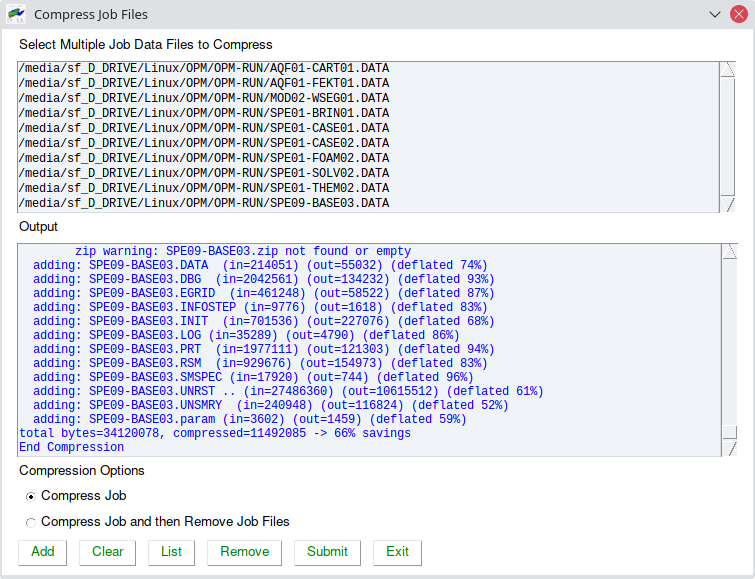
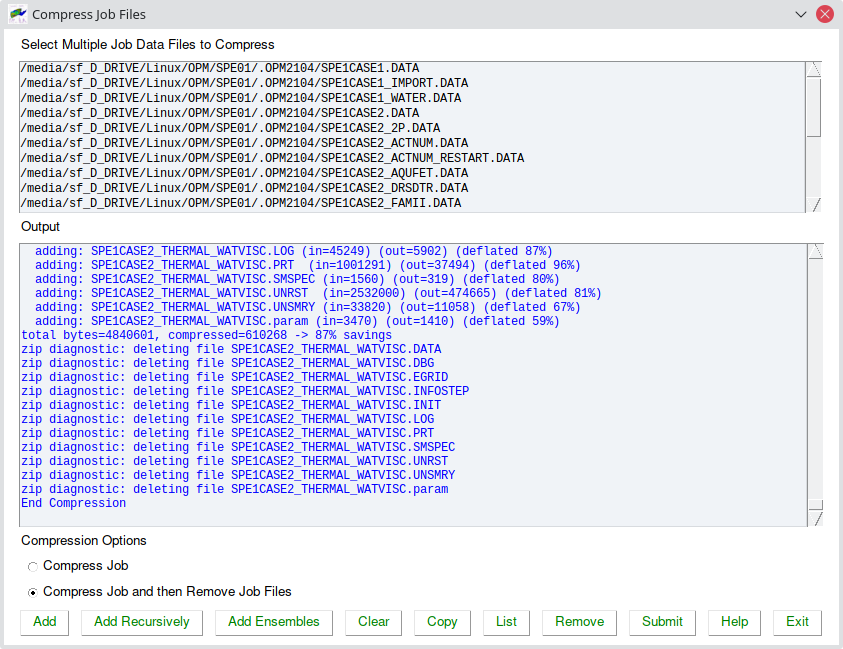
Add Recursive Compression to OPMRUN Tools
Add recursive compression to compress all *.DATA jobs in a directory and below, as well as  ensemble recursive compression, that will compress all files in an ensemble directory. I needed this for a project that had far too many ensemble cases.

Added addition documentation and compression "help" option.

Fixed a bug with calling OPM ResInsight.

This was done some time ago I just needed to update the image in the manual and the web site for the commit.

diff --git a/opmrun/opm_compress.py b/opmrun/opm_compress.py
@@ -9,6 +9,9 @@ Program Documentation
 ---------------------
 Only Python 3 is supported and tested Python2 support has been depreciated.
 
+2022.04.01 - Add compression option to add Ensemble directories recursively and updated help information.
+2022.04.01 - Add compression/uncompression option to add files recursively and also added help information.
+2022.04.01 - Add compression option to add Ensemble directories recursively and updated help information.
 2021.07.01 - New module with code moved from main module to here for code maintainability reasons.
 2020.04.04 - Refactored code to be more compact as import checks are done in the main routine.
 2020.04.01 - Initial release
@@ -43,7 +46,7 @@ Date    : 14-Jul-2021
 import PySimpleGUI as sg
 from pathlib import Path
 
-from opm_common import (change_directory, run_command)
+from opm_common import (change_directory, copy_to_clipboard, opm_popup, run_command)
 
 # ----------------------------------------------------------------------------------------------------------------------
 # Define OPM_COMPRESS Specific Modules
@@ -84,6 +87,7 @@ def compress_cmd(cmd):
     jobzip  = Path(jobbase).with_suffix('.zip')
     return job, jobcmd, jobpath, jobbase, jobroot, jobfile, jobzip
 
+
 def compress_chk(cmd, window):
     """Check that the Linux ZIP and UNZIP Packages Have Been Installed
 
@@ -113,11 +117,13 @@ def compress_chk(cmd, window):
         status = True
     return status
 
+
 def compress_files(opmoptn):
     """Compress All Jobs Input and Output into a Zip File Using the Base Name
 
     The function allows the use to select a group of DATA files for compression of all files associated with the case
-    name (*.DATA), using the standard zip utility on Linux systems
+    name (*.DATA), using the standard zip utility on Linux systems. In addition, files can be added recursively by
+    selecting the "top" directory.
 
     Parameters
     ----------
@@ -137,16 +143,19 @@ def compress_files(opmoptn):
 
     outlog   = '_outlog1_'+sg.WRITE_ONLY_KEY
     layout1  = [[sg.Text('Select Multiple Job Data Files to Compress'                             )],
-                [sg.Listbox(values='', size=(100, 10), key='_joblist1_',
+                [sg.Listbox(values='', size=(112, 10), key='_joblist1_',
                             font=(opmoptn['output-font'], opmoptn['output-font-size'])            )],
                 [sg.Text('Output'                                                                 )],
-                [sg.Multiline(key=outlog, size=(100, 15), text_color='blue', autoscroll=True,
+                [sg.Multiline(key=outlog, size=(112, 20), text_color='blue', autoscroll=True,
                               font=(opmoptn['output-font'], opmoptn['output-font-size'])          )],
                 [sg.Text('Compression Options'                                                    )],
                 [sg.Radio('Compress Job' , "bRadio", default=True                                 )],
                 [sg.Radio('Compress Job and then Remove Job Files', "bRadio"                      )],
-                [sg.Button('Add'), sg.Button('Clear',  tooltip='Clear Output'), sg.Button('List'),
-                                   sg.Button('Remove', tooltip='Remove Data Files'), sg.Submit(), sg.Exit()]]
+                [sg.Button('Add'), sg.Button('Add Recursively', tooltip='Add *.DATA Files Recursively'),
+                 sg.Button('Add Ensembles', tooltip='Add Ensemble Directories Recursively'),
+                 sg.Button('Clear', tooltip='Clear Output'),
+                 sg.Button('Copy', tooltip='Copy Output to Clipboard'), sg.Button('List'),
+                 sg.Button('Remove', tooltip='Remove Data Files'), sg.Submit(), sg.Button('Help'), sg.Exit()]]
     window1 = sg.Window('Compress Job Files', layout=layout1, finalize=True)
     #
     #   Set Output Multiline Window for CPRINT and Check If ZIP Package is Available
@@ -178,10 +187,58 @@ def compress_files(opmoptn):
                 window1['_joblist1_'].update(joblist1)
             continue
         #
+        # Add Files Recursively
+        #
+        if event == 'Add Recursively':
+            jobdir = sg.popup_get_folder('Select Job Directory for Data Files to Compress Recursively',
+                                         default_path=str(Path().absolute()), initial_folder=Path().absolute())
+            jobs   = [job for job in Path(jobdir).rglob('*') if job.suffix in ['.DATA', '.data']]
+            if len(jobs) == 0:
+                sg.popup_ok('No Simulation Input Files Found', title='OPMRUN Add Recursively',
+                            no_titlebar=False, grab_anywhere=False, keep_on_top=True)
+                continue
+            else:
+                text = sg.popup_yes_no('Found a Total of ' + str(len(jobs)) + ' Simulation Input Files.\n',
+                                       'Do you wish to add all this files to the job queue?',
+                                       title='OPMRUN Add Recursively',
+                                       no_titlebar=False, grab_anywhere=False, keep_on_top=True)
+                if text == 'Yes':
+                    joblist1 = jobs
+                    window1['_joblist1_'].update(joblist1)
+                continue
+        #
+        # Add Files Ensembles
+        #
+        if event == 'Add Ensembles':
+            jobdir = sg.popup_get_folder('Select Main Ensemble Directory for Directory Compression Recursively',
+                                         default_path=str(Path().absolute()), initial_folder=Path().absolute())
+            jobs   = [job for job in Path(jobdir).glob('**/')]
+            jobs   = jobs[1:]
+            if len(jobs) == 0:
+                sg.popup_ok('No Ensemble Directories Found', title='OPMRUN Add Ensembles',
+                            no_titlebar=False, grab_anywhere=False, keep_on_top=True)
+                continue
+            else:
+                text = sg.popup_yes_no('Found a Total of ' + str(len(jobs)) + ' Ensemble Directories.\n',
+                                       'Do you wish to add all this Ensemble Directories to the job queue?',
+                                       title='OPMRUN Add Ensembles',
+                                       no_titlebar=False, grab_anywhere=False, keep_on_top=True)
+                if text == 'Yes':
+                    joblist1 = jobs
+                    window1['_joblist1_'].update(joblist1)
+                continue
+        #
         # Clear Output
         #
         if event == 'Clear':
             window1[outlog].update('')
+            continue
+        #
+        # Copy Output to Clipboard
+        #
+        elif event == 'Copy':
+            copy_to_clipboard(window1[outlog].get())
+            sg.popup_timed('Output Copied to Clipboard', no_titlebar=False, grab_anywhere=False, keep_on_top=True)
             continue
         #
         # Exit
@@ -193,6 +250,11 @@ def compress_files(opmoptn):
                 break
             else:
                 continue
+        #
+        # Help
+        #
+        elif event == 'Help':
+            compress_help(opmoptn)
         #
         # Get Directory and List Files
         #
@@ -229,12 +291,18 @@ def compress_files(opmoptn):
             for cmd in joblist1:
                 jobnum = jobnum + 1
                 window1['_joblist1_'].update(set_to_index=jobnum, scroll_to_index=jobnum)
-                sg.cprint('Start Compression\n')
+                sg.cprint('\nStart Compression')
                 (job, jobcmd, jobpath, jobbase, jobroot, jobfile, jobzip) = compress_cmd(cmd)
-
-                error = change_directory(jobpath, popup=True, outprt=True)
-                if not error:
+                #
+                # File or Ensemble Compression
+                #
+                if Path(cmd).is_file():
+                    error  = change_directory(jobpath, popup=True, outprt=True)
                     jobcmd = wsl + zipcmd + str(jobzip) + ' ' + str(jobfile)
+                else:
+                    error  = change_directory(jobcmd, popup=True, outprt=True)
+                    jobcmd = wsl + zipcmd + str(jobzip) + ' ' + '*.*'
+                if not error:
                     sg.cprint('   ' + jobcmd)
                     run_command(jobcmd, timeout=None, window=window1)
                     sg.cprint('End Compression')
@@ -245,6 +313,54 @@ def compress_files(opmoptn):
 
     window1.Close()
     return()
+
+
+def compress_help(opmoptn):
+    """Compress and Uncompress Help
+
+    Display compress and uncompress help information.
+
+    Parameters
+    ----------
+    opmoptn; dict
+        A dictionary containing the OPMRUN default parameters
+
+    Returns
+    ------
+    None
+    """
+
+    helptext = (
+                'OPMRun is a Graphical User Interface ("GUI") program for the Open Porous Media ("OPM") Flow ' +
+                'simulator. \n' +
+                '\n'
+                'The Compress and Uncompress utilities enable compress and uncompression to be performed on OPM Flow ' +
+                'datasets. Currently the following options are available:\n\n' +
+                'Add             - Allows one to select the individual files, *.DATA for \n' +
+                '                  compression jobs and *.ZIP for uncompressing jobs.\n' +
+                'Add Recursively - Lets one select the main directory, and all files within and\n' +
+                '                  below the selected directory will be selected, based on \n' +
+                '                  the compression (*.DATA) and uncompression (*.ZIP) option.\n' +
+                'Add Ensembles   - Select the main Ensemble directory, and all directories \n' +
+                '                  within and below will be selected. All files within a \n' +
+                '                  a directory will be compressed into one zip file. Use the \n' +
+                '                  Add Recursively uncompression (*.ZIP) option to unzip the \n' +
+                '                  files.\n' +
+                'Clear           - Clears the Output window.\n' +
+                'List            - Allows one to select a directory and display all the *.DATA\n' +
+                '                  or *.ZIP files.\n' +
+                'Remove          - Remove all compression jobs from the queue.\n' +
+                'Submit          - Submit all compression jobs for processing.\n' +
+                'Exit            - Exit the utility.\n' +
+                '\n' +
+                'For the compression option one also has the option to remove the files once they have been ' +
+                'compressed in order to save space.\n\n' +
+                'The uncompressing options include being able or not able to over write existing files, as well as ' +
+                'the option to remove the zip files or to keep the zip files once all the files have been ' +
+                'uncompressed. \n\n' +
+                'See the OPM Flow manual for further information. \n')
+
+    opm_popup('Compression Utility Help', helptext, 25, font= (opmoptn['output-font'],opmoptn['output-font-size']))
 
 
 def uncompress_files(opmoptn):
@@ -270,22 +386,21 @@ def uncompress_files(opmoptn):
     joblist1 = []
 
     outlog   = '_outlog1_'+sg.WRITE_ONLY_KEY
-    layout1  = [[sg.Text('Select Multiple Archive Files to Uncompress'                           )],
+    layout1  = [[sg.Text('Select Multiple Archive Files to Uncompress')],
                 [sg.Listbox(values='', size=(100, 10), key='_joblist1_',
                             font=(opmoptn['output-font'], opmoptn['output-font-size']))],
                 [sg.Text('Output')],
-                [sg.Multiline(key=outlog, size=(100, 15), text_color='blue', autoscroll=True,
+                [sg.Multiline(key=outlog, size=(100, 20), text_color='blue', autoscroll=True,
                               font=(opmoptn['output-font'], opmoptn['output-font-size']))],
-                [sg.Text('Uncompress Options'                                                 )],
-                [sg.Radio('Uncompress and Keep Existing Files'        , "bRadio1", default=True,
-                          key='_bRadio1_'                                                        )],
-                [sg.Radio('Uncompress and Overwrite Existing Files'   , "bRadio1"                )],
-                [sg.Text('Compressed File Options'                                               )],
-                [sg.Radio('Keep Compressed File After Uncompressing'  , "bRadio2", default=True,
-                          key='_bRadio2_'                                                        )],
-                [sg.Radio('Delete Compressed File After Uncompressing', "bRadio2"                )],
-                [sg.Button('Add'), sg.Button('Clear',  tooltip='Clear Output'), sg.Button('List'),
-                                   sg.Button('Remove', tooltip='Remove Zip Files'), sg.Submit(), sg.Exit()]]
+                [sg.Text('Uncompress Options', size=(42,1)),sg.Text('Compressed File Options' )],
+                [sg.Radio('Uncompress and Keep Existing Files', "bRadio1", size=(40,1), default=True, key='_bRadio1_'),
+                 sg.Radio('Keep Compressed File After Uncompressing', "bRadio2", default=True, key='_bRadio2_')],
+                [sg.Radio('Uncompress and Overwrite Existing Files', "bRadio1", size=(40,1)),
+                 sg.Radio('Delete Compressed File After Uncompressing', "bRadio2")],
+                [sg.Button('Add'), sg.Button('Add Recursively'), sg.Button('Clear',  tooltip='Clear Output'),
+                 sg.Button('Copy', tooltip='Copy Output to Clipboard'), sg.Button('List'),
+                 sg.Button('Remove', tooltip='Remove Zip Files'), sg.Submit(), sg.Button('Help'),
+                 sg.Exit()]]
     window1 = sg.Window('Uncompress Job Files', layout=layout1, finalize=True)
     #
     #   Set Output Multiline Window for CPRINT and Check If ZIP Package is Available
@@ -300,7 +415,9 @@ def uncompress_files(opmoptn):
 
         if event == sg.WIN_CLOSED:
             break
-
+        #
+        # Add Files
+        #
         if event == 'Add':
             jobs = sg.popup_get_file('Select ZIP Files to Uncompress', no_window=False,
                                    default_path=str(Path().absolute()), initial_folder=str(Path().absolute()),
@@ -313,10 +430,37 @@ def uncompress_files(opmoptn):
                 window1['_joblist1_'].update(joblist1)
             continue
         #
+        # Add Files Recursively
+        #
+        if event == 'Add Recursively':
+            jobdir = sg.popup_get_folder('Select Job Directory for ZIP Files to Uncompress Recursively',
+                                         default_path=str(Path().absolute()), initial_folder=Path().absolute())
+            jobs   = [job for job in Path(jobdir).rglob('*') if job.suffix in ['.zip', '.ZIP']]
+            if len(jobs) == 0:
+                sg.popup_ok('No ZIP Files Found', title='OPMRUN Add Recursively',
+                            no_titlebar=False, grab_anywhere=False, keep_on_top=True)
+                continue
+            else:
+                text = sg.popup_yes_no('Found a Total of ' + str(len(jobs)) + ' ZIP Files.\n',
+                                       'Do you wish to add all these files to the job queue?',
+                                       title='OPMRUN Add Recursively',
+                                       no_titlebar=False, grab_anywhere=False, keep_on_top=True)
+                if text == 'Yes':
+                    joblist1 = jobs
+                    window1['_joblist1_'].update(joblist1)
+                continue
+        #
         # Clear Output
         #
         if event == 'Clear':
             window1[outlog].update('')
+            continue
+        #
+        # Copy Output to Clipboard
+        #
+        elif event == 'Copy':
+            copy_to_clipboard(window1[outlog].get())
+            sg.popup_timed('Output Copied to Clipboard', no_titlebar=False, grab_anywhere=False, keep_on_top=True)
             continue
         #
         # Exit
@@ -328,6 +472,11 @@ def uncompress_files(opmoptn):
                 break
             else:
                 continue
+        #
+        # Help
+        #
+        elif event == 'Help':
+            compress_help(opmoptn)
         #
         # Get Directory and List Files
         #

diff --git a/opmrun/opmrun.py b/opmrun/opmrun.py
@@ -46,14 +46,21 @@ Revision History
 ----------------
 Only Python 3 is supported and tested Python2 support has been depreciated.
 
+**2022.04.01**
+
+Add compression option to add Ensemble directories recursively and updated help information.
+Added compression/uncompression option to add files recursively and also added help information.
+Fixed a bug with the View in ResInsight option not working due to the command line startdir parameter not working, by
+manually changing to the directory first before calling ResInsight.
+
 **2021.07-01**
 
 Implemented support for Windows 10 WSL. OPMRUN can now run under Windows 10 and run OPM Flow via WSL with the same
 functionality as that under Linux. For running under WSL the terminal type should be set to wsl under the
 Edit/Options menu item. The compression/uncompression tool has also been implemented under WSL using the same
-Edit/Options menu item. The compression/uncompression tool has also been implemented under WSL using the same linux
-commands, as the Windows 10 command line tools have limited functionality. A message is now written to the screen if
-the zip/unzip commands are not available. The WSL option has been tested via Unbuntu 20.04 LTS using OPM Flow 20.04.
+Edit/Options menu item using the same Linux commands, as the Windows 10 command line tools have limited functionality.
+A message is now written to the screen if the zip/unzip commands are not available. The WSL option has been tested via
+Unbuntu 20.04 LTS using OPM Flow 20.04.
 
 Added a "Reset Queue" option that  resets the the queue parameters by converting the file names to/from windows
 and Linux file names, as well well editing the run time options for all jobs. Thus one can easily switch from running
@@ -240,7 +247,7 @@ Date    : 30-July-2021
 #
 # Set OPMRUN Version Number
 #
-__version__ = '2021.07.1'
+__version__ = '2021.04.1'
 
 # ----------------------------------------------------------------------------------------------------------------------
 # Import Modules and Start Up Section - All Modules Used by the OPMRUN Modules are Imported Upfront for Verification.
@@ -2346,25 +2353,23 @@ def run_resinsight(command, jobfile='None'):
         return()
 
     if not jobfile == 'None':
-        job = str(jobfile[0]).rstrip()
-        istart = job.find('=') + 1
-        file1 = Path(job[istart:]).with_suffix('.GRID')
-        file2 = Path(job[istart:]).with_suffix('.EGRID')
-        if file1.is_file():
-            file0 = file1
-        elif file2.is_file():
-            file0 = file2
+        job   = str(jobfile[0]).rstrip()
+        file0 = Path(job[job.find('=') + 1:])
+        file1 = Path(file0).with_suffix('.GRID')
+        file2 = Path(file0).with_suffix('.EGRID')
+        file3 = Path(file0).with_suffix('.SMSPEC')
+        if file1.is_file() or file2.is_file() or file3.is_file():
+            change_directory(Path(file0).parent, popup=False, outprt=False)
+            command = command + str(' --case ') + str(file0.stem)
         else:
-            sg.popup_error('Cannot Find GRID/EGRID File: ', str(file1),
-                           'or ', str(file2),
-                           no_titlebar=False, grab_anywhere=False, keep_on_top=True)
-            out_log('Cannot Find: ' + str(file1) + ' or ' + str(file2), True)
+            sg.popup_error('Cannot Find GRID, EGRID, or SMSPEC File:\n ', str(file1) + '\n' + str(file2) + '\n or \n' +
+                           str(file3) +'\n', no_titlebar=False, grab_anywhere=False, keep_on_top=True)
+            out_log('ResInsight Command: Failed', True)
+            out_log('Cannot Find: ' + str(file1) + ', ' + str(file2) + ', or ' + str(file3), True)
 
             return ()
-        command = command + str(' --startdir ') + str(file0.parent) + str(' --case ') + str(file0.name)
-
     try:
-        out_log('Executing ResInsight Command: ' + str(command) , True)
+        out_log('Executing ResInsight Command: ' + str(command), True)
         subprocess.Popen(command, shell=True)
 
     except Exception:
